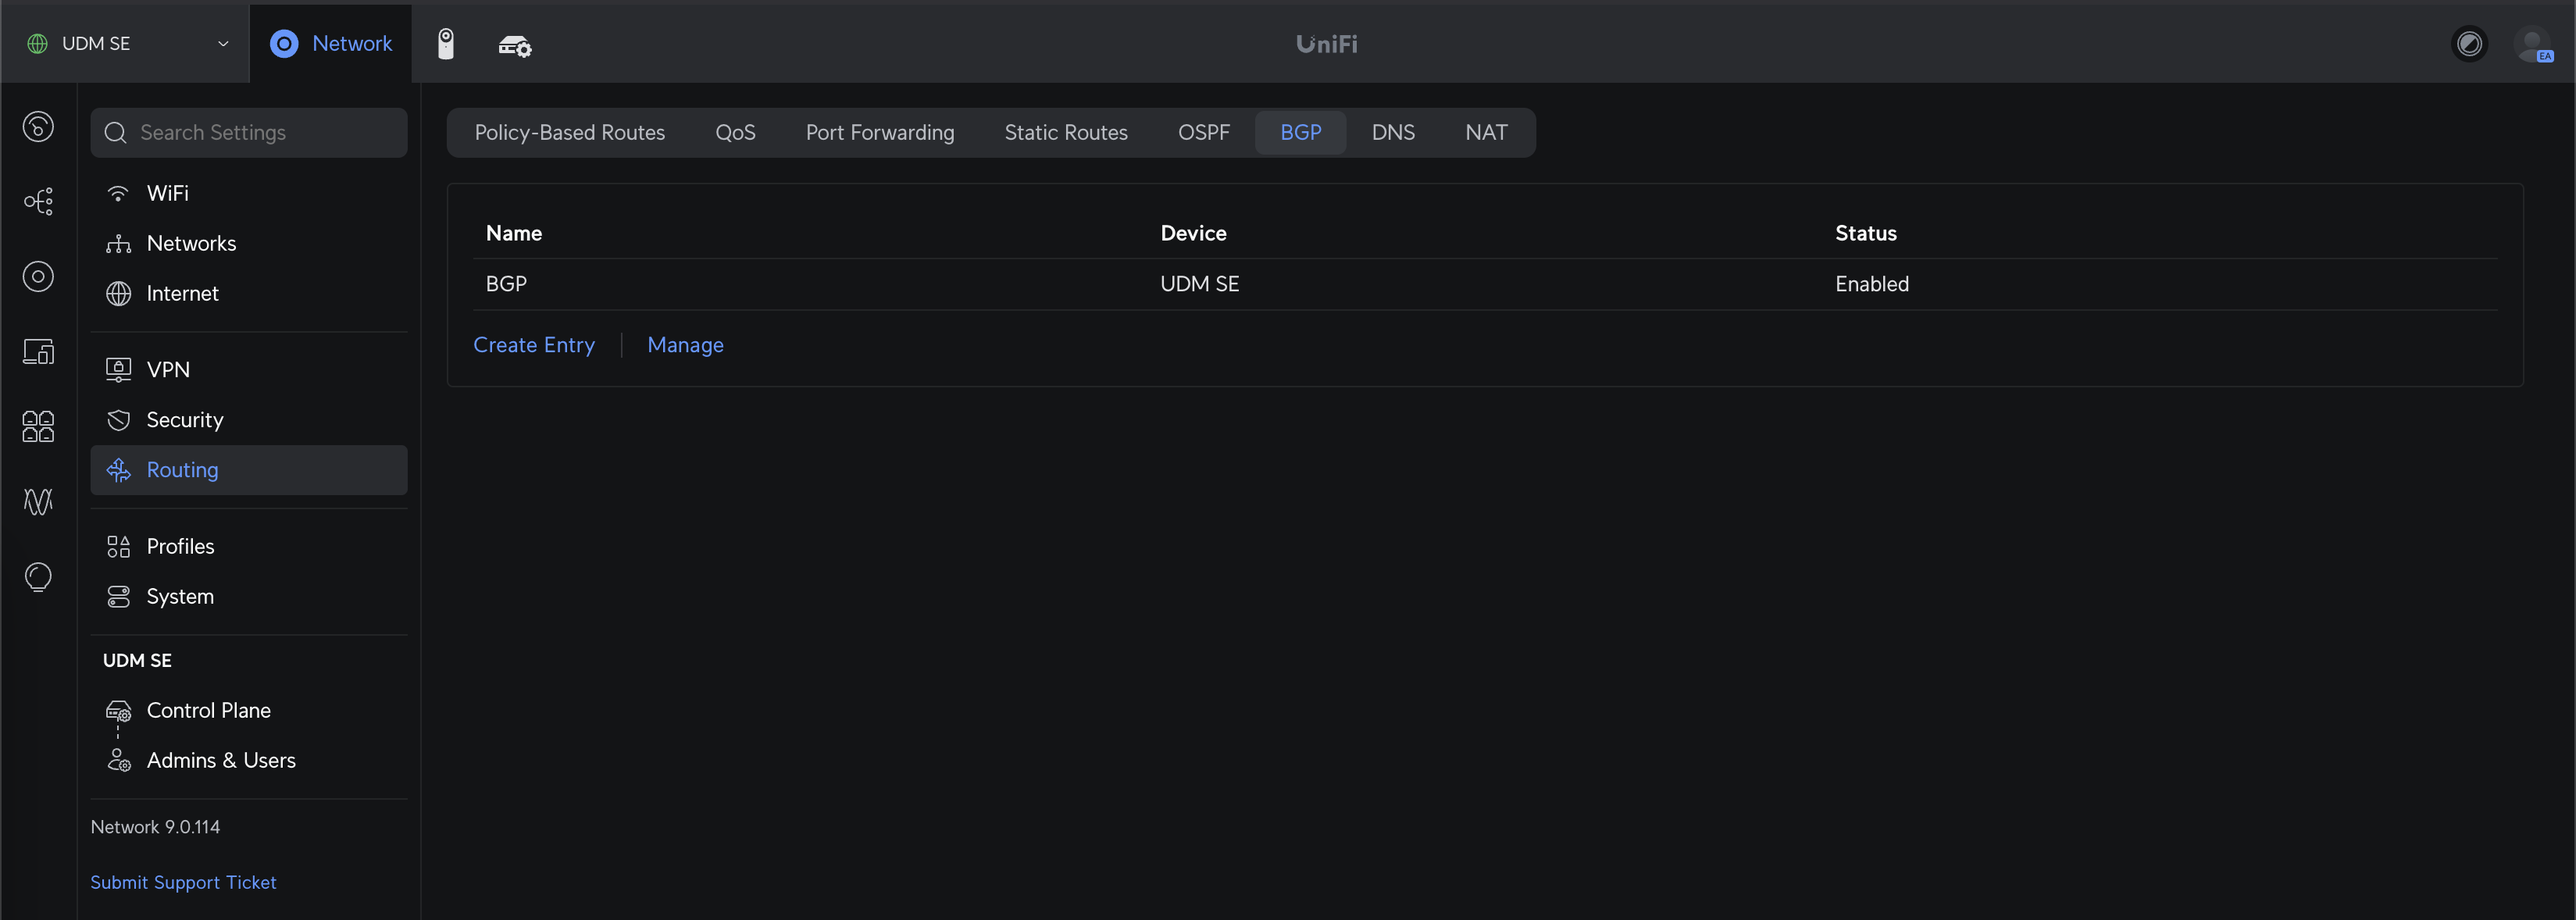
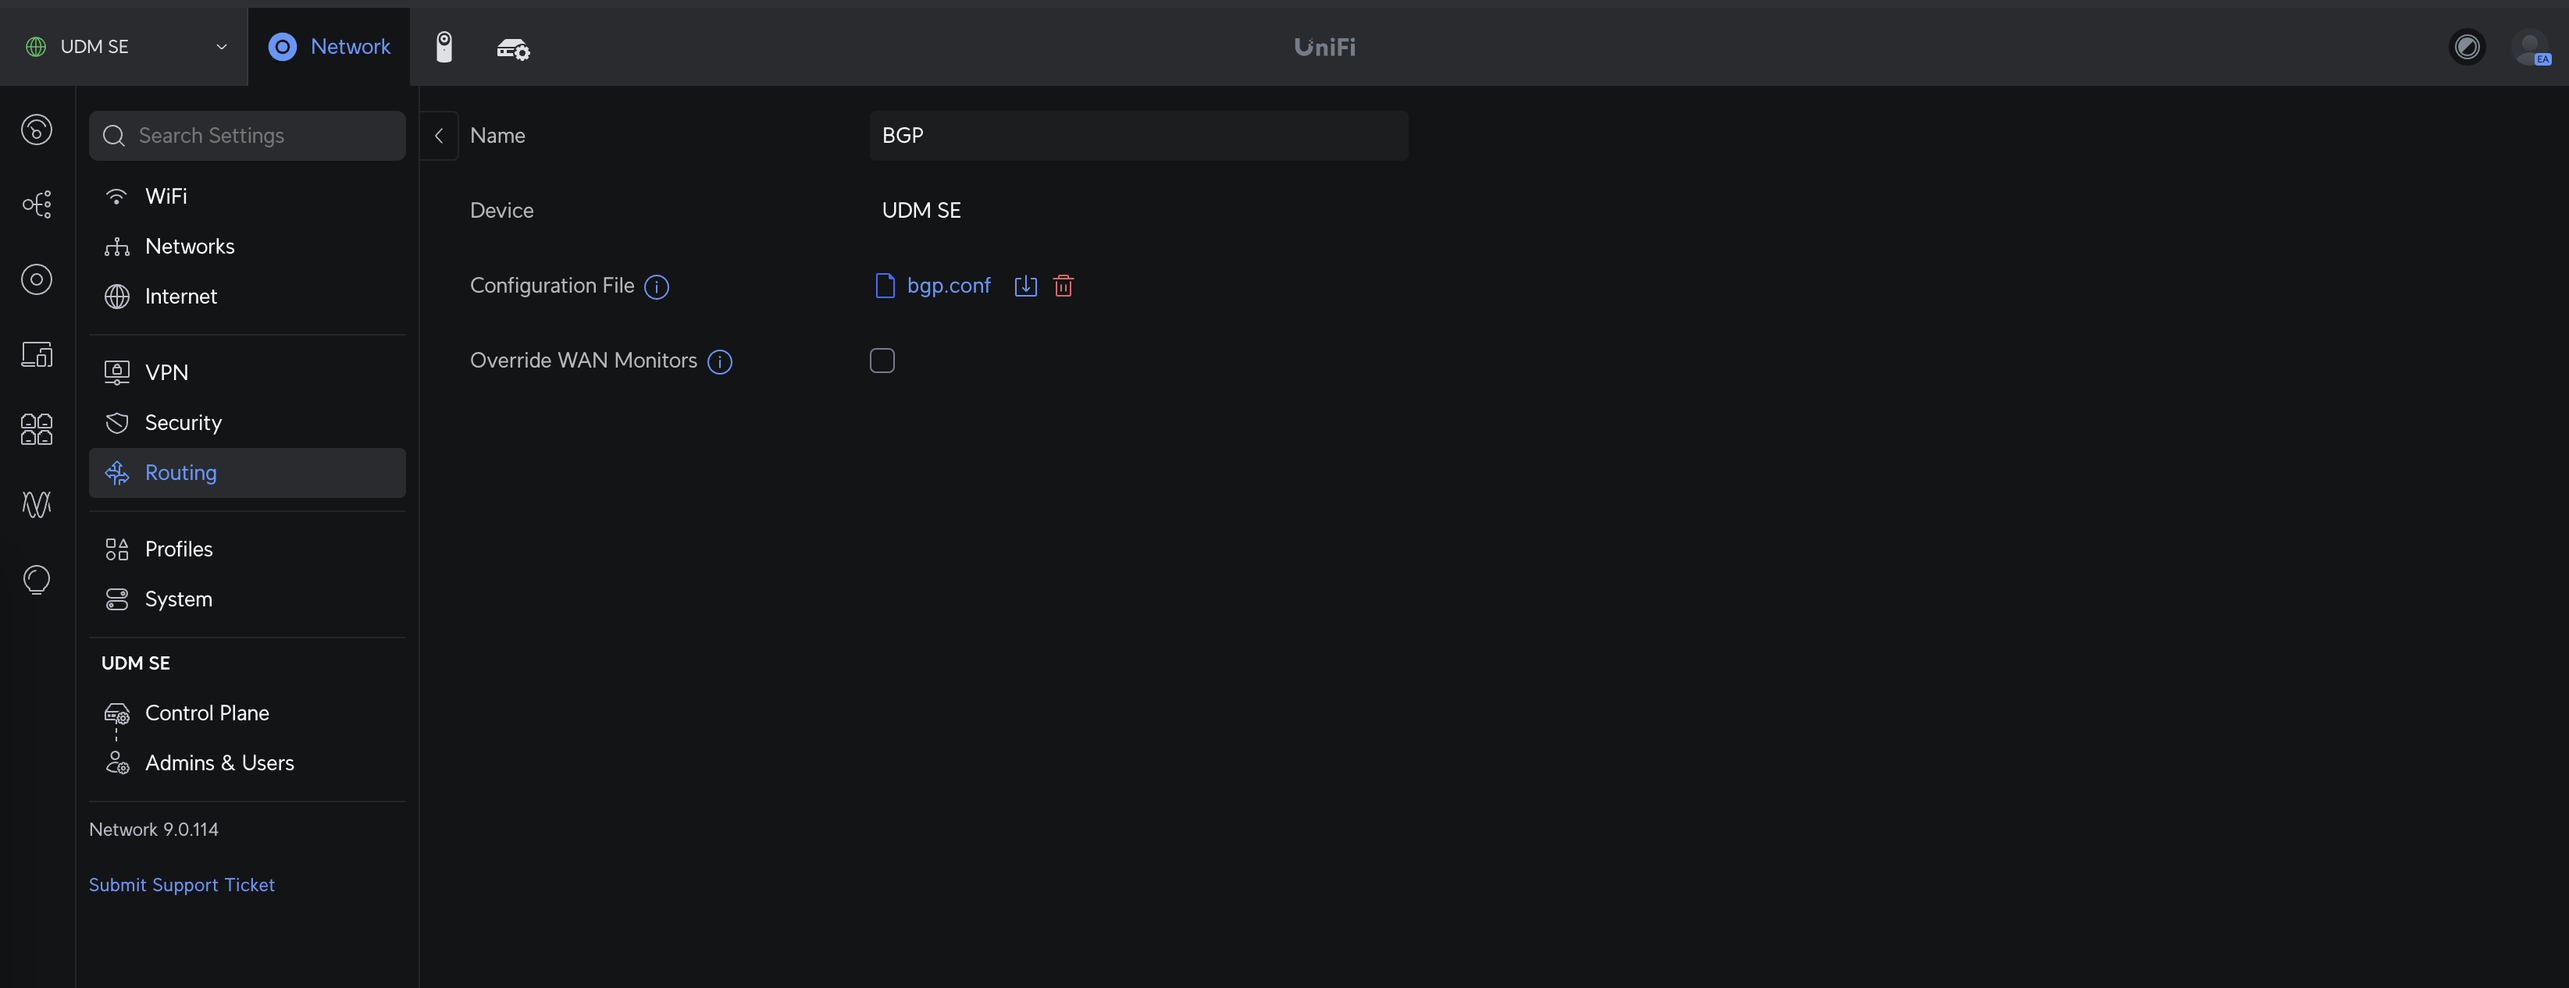
modified:   README.md 	modified:   assets/images/1.png   modified:   assets/images/2.png

diff --git a/README.md b/README.md
@@ -1,6 +1,8 @@
 # FRR BGP Configuration for UnifiOS
 bgp.conf - FRR BGP Configuration file
 
-### Upload the configuration
+## Upload the configuration
+#### Go to Settings -> Routing -> BGP
+Create an entry, give it a name and upload the configuration file
 ![picture](./assets/images/1.png)
 ![picture](./assets/images/2.png)
